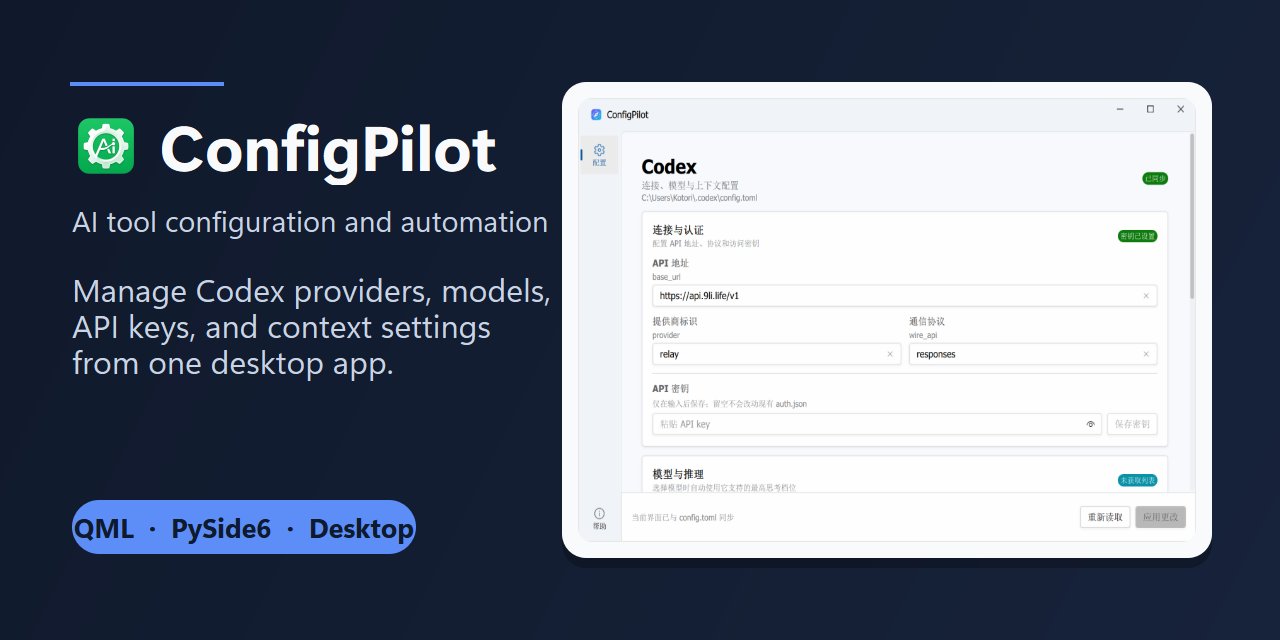
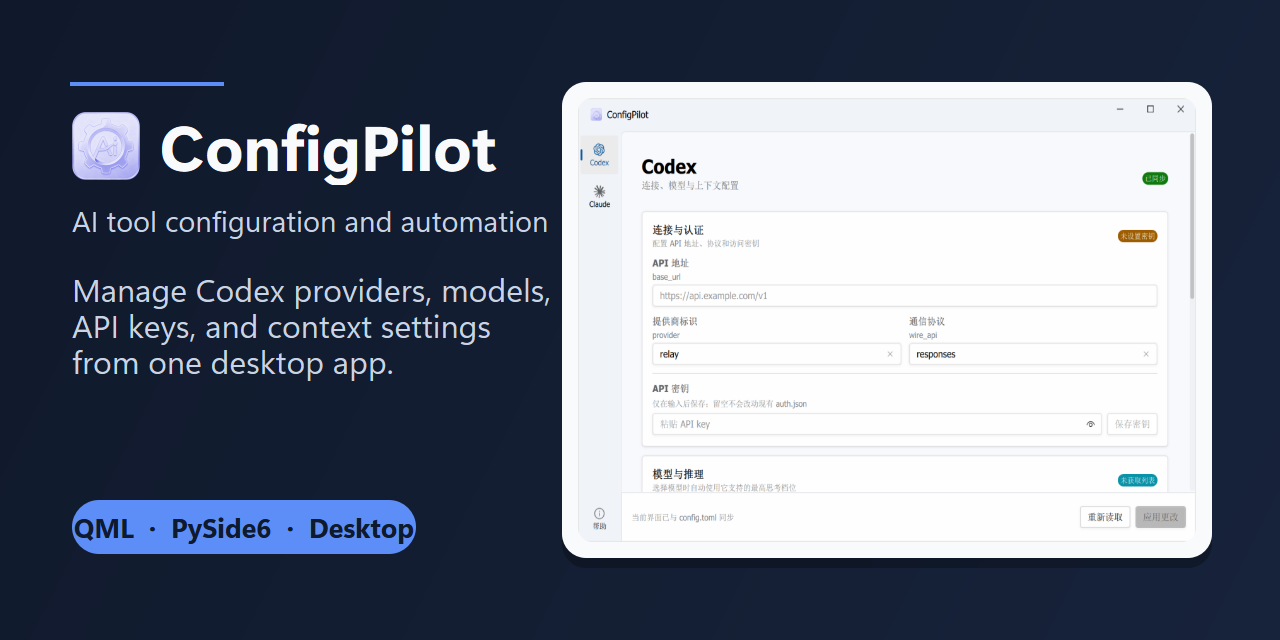
style: 更新 ConfigPilot 图标与仓库链接

diff --git a/tests/test_branding.py b/tests/test_branding.py
@@ -93,7 +93,7 @@ class BrandingTests(unittest.TestCase):
     def test_icon_sources_are_valid_and_windows_icon_has_multiple_sizes(self):
         png = (ROOT / "resources" / "app_icon.png").read_bytes()
         self.assertEqual(png[:8], b"\x89PNG\r\n\x1a\n")
-        self.assertEqual(struct.unpack(">II", png[16:24]), (768, 768))
+        self.assertEqual(struct.unpack(">II", png[16:24]), (2048, 2048))
         self.assertEqual((png[24], png[25]), (8, 6))
 
         main = self.read("main.py")

diff --git a/README.md b/README.md
@@ -1,5 +1,9 @@
 # ConfigPilot
 
+<p align="center">
+  <img src="resources/app_icon.png" alt="ConfigPilot 图标" width="160">
+</p>
+
 **AI 工具配置与自动化中心。**
 
 ConfigPilot 是一个用 [PrismQML](https://pypi.org/project/prismqml/) 构建的桌面工具。当前支持 OpenAI Codex CLI 与 Claude Desktop：既能管理 `~/.codex/config.toml`，也能一键启用 Claude Desktop Developer Mode 并配置 Third-Party Inference Gateway，免去手动编辑 TOML/JSON。
@@ -52,7 +56,7 @@ open "/Applications/ConfigPilot.app"
 需要 Python 3.11+（用到 `tomllib`）。
 
 ```bash
-git clone https://github.com/aki-riko/configpilot.git
+git clone https://github.com/aki-riko/ConfigPilot.git
 cd configpilot
 python -m venv .venv
 .venv\Scripts\activate          # Windows

diff --git a/docs/release-notes/v1.0.7.md b/docs/release-notes/v1.0.7.md
@@ -2,7 +2,7 @@
 
 这是产品更名为 ConfigPilot 之前的历史版本。建议优先下载最新版本：
 
-https://github.com/aki-riko/configpilot/releases/latest
+https://github.com/aki-riko/ConfigPilot/releases/latest
 
 ## macOS 安装须知
 

diff --git a/docs/release-notes/v1.0.8.md b/docs/release-notes/v1.0.8.md
@@ -1,6 +1,6 @@
 # ConfigPilot v1.0.8
 
-> Windows 用户请优先升级到 [v1.0.9](https://github.com/aki-riko/configpilot/releases/tag/v1.0.9)。v1.0.9 修复了旧版升级后安装目录仍为 `CodexConfig` 和任务栏显示通用图标的问题。
+> Windows 用户请优先升级到 [v1.0.9](https://github.com/aki-riko/ConfigPilot/releases/tag/v1.0.9)。v1.0.9 修复了旧版升级后安装目录仍为 `CodexConfig` 和任务栏显示通用图标的问题。
 
 本版本完成产品更名、GPT-5.6 配置支持和配置页体验重构。
 